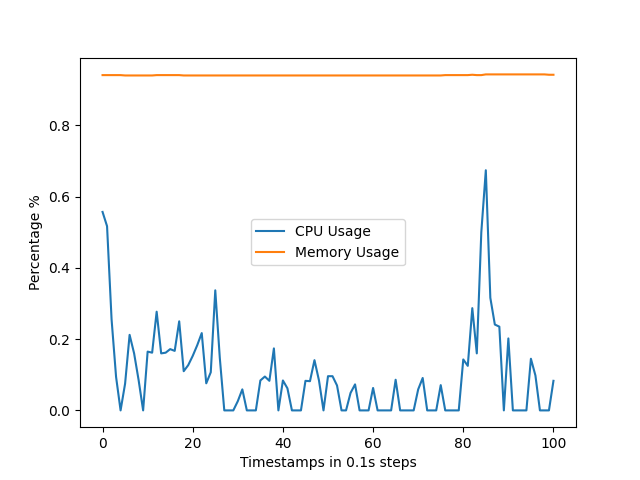
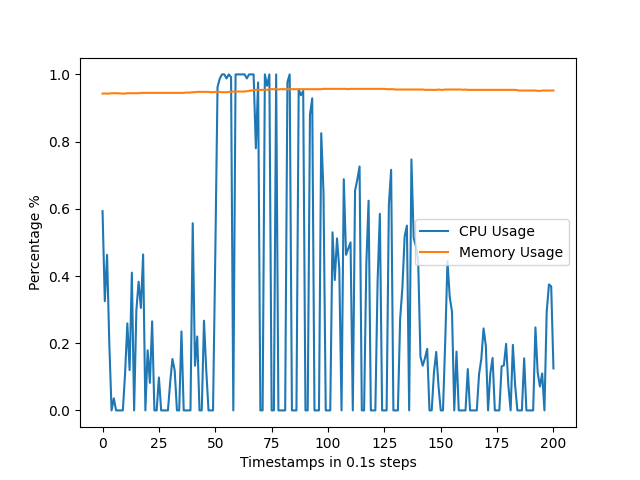
update

diff --git a/main.py b/main.py
@@ -5,24 +5,28 @@ import matplotlib.pyplot as plt
 import psutil
 from psutil import cpu_percent
 
+file = open("data.txt", "r")
+mem = open("memory.txt", "r")
+a = []
+for i in file:
+    a.append(i.strip()[24:30])
+c = []
+for i in a[1:-1]:
+    c.append(float(i.replace(" ", "")))
+#print(c)
 
-cpu_usage = []
-memory_usage = []
-while True:
-    if len(cpu_usage) > 100:
-        break
-    cpu_usage.append(cpu_percent(0.1)/100)
-    memory_usage.append(psutil.virtual_memory().percent/100)
-    time.sleep(0.1)
+m =[]
+for i in mem:
+    m.append(i.strip()[36:41])
+memory = []
 
-plt.plot(cpu_usage, label="CPU Usage")
-plt.plot(memory_usage, label="Memory Usage")
-plt.ylabel('Percentage %')
-plt.xlabel('Timestamps in 0.1s steps')
+for i in m[1:-1]:
+    memory.append(float(i))
+print(memory)
+
+plt.plot(c, label="CPU")
+plt.plot(memory, label="Memory")
+plt.xlabel("second")
 plt.legend()
-
-# save
-strFile = "plotCPUandMemoryUsage.png"
-if os.path.isfile(strFile):
-    os.remove(strFile)
-plt.savefig("plotCPUandMemoryUsage")
+plt.ylabel("CPU usage of all 4 Cores")
+plt.savefig("plotCPUUsage.png")
